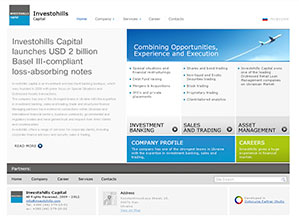
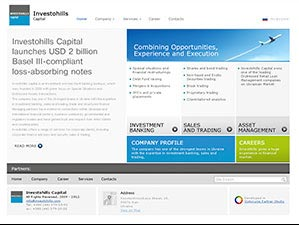
fix form main page and portfolio

diff --git a/css/style.css b/css/style.css
@@ -678,7 +678,7 @@ textarea  {
  ============================*/
 .tabs-section {
 	position: relative;
-	padding-bottom:360px;
+	padding-bottom:50px;
 	margin:0 0 40px;
 }
 .tabs-section .tabs {
@@ -686,28 +686,27 @@ textarea  {
 	bottom:0;
 	left:0;
 	z-index: 2;
+	text-align:center;
+	width:100%;
 }
 .main .tabs-section .tabs span {
-	width:140px;
-	height:100%;
-	height:78px;
+	text-indent: -999em;
 	cursor: pointer;
-}
-.main .tabs-section .tabs span:first-child {
-	width:300px;
+	text-align:left;
 }
 .tabs-section .tabs span{
-	padding:10px 15px;
 	position: relative;
-	display:block;
+	display: inline-block;
 	font-size:14px;
 	line-height: 18px;
-	float:left;
+
 	margin:0 0 15px 15px;
 	background: #eeeeee;
 	color:#000;
-	border-radius:10px;
+	border-radius:30px;
 	text-decoration: none;
+	min-height: 10px;
+	min-width: 17px;
 }
 .tabs-section .tabs span.active,
 .tabs-section .tabs span:hover,
@@ -718,14 +717,7 @@ textarea  {
 .tabs-section .tabs span.active {
 	cursor: default;
 }
-.tabs-section .tabs span.active:before {
-	content:"";
-	width:16px;
-	height:32px;
-	position: absolute;
-	top:-23px;
-	left:0;
-}
+
 .tabs-section .tab-body {
 	display: none;
 }
@@ -748,6 +740,7 @@ textarea  {
 }
 .tabs-section .picture {
 	margin:0 auto 20px;
+	display:none;
 }
 .tabs-section .picture img{
 	display:block;
@@ -848,8 +841,8 @@ ul.bullet-squre li:before {
 	margin:20px;
 }
 .sosials li {
-	float:left;
 	margin-left:7px;
+	display: inline-block;
 }
 .sosials li:first-child {
 	margin-left:0;
@@ -963,7 +956,7 @@ ul.bullet-squre li:before {
 	display:block;
 }
 .main-form-section .form-field {
-	margin:0 0 14px;
+	margin:0 0 4px;
 }
 .air-balls .main-form-section .form-field label {
 	color:#fff;
@@ -974,14 +967,18 @@ ul.bullet-squre li:before {
 	color:#000;
 	padding:7px 0;
 	font-size:13px;
+	line-height:15px;
+}
+.main-form-section .form-field textarea {
+	max-height:50px;
 }
 .main-form-section .form-field input,
 .main-form-section .form-field textarea {
 	width:100%;
 	background: #fff;
 	border:1px solid #c7c7c7;
-	padding:9px 10px;
-	font-size:13px;
+	padding:2px 5px;
+	font-size:11px;
 	color:#acacac;
 }
 .air-balls .main-form-section .form-field input,
@@ -1192,6 +1189,9 @@ a.btn-orange {
 	right:-155px;
 	top:10px;
 	z-index: 2;
+}
+.calculate-price .btn-orange:before {
+	display:none;
 }
 .estimate-page .right-side p {
 	line-height:24px;
@@ -1783,9 +1783,6 @@ a.btn-orange {
 	padding:10px;
 
 }
-.small-preview .screen-shot {
-	height:200px;
-}
 .screen-shot {
 	border:2px solid #a7a7a7;
 	margin:0 0 20px;
@@ -1839,4 +1836,15 @@ a.btn-orange {
 .icons-qr {
 	margin-top:7px;
 }
-
+@media only screen and (min-width: 1400px) {
+	.contact-header:after {
+		background: url("../img/ball-contact.jpg") no-repeat scroll 100% 0 rgba(0, 0, 0, 0);
+		bottom: -300px;
+		content: "";
+		height: 319px;
+		position: absolute;
+		right: -170px;
+		width: 270px;
+		z-index: 1;
+	}
+}

diff --git a/css/600.css b/css/600.css
@@ -118,7 +118,38 @@
 	width:50%;
 	float:left;
 }
-.small-preview .preview {
-	width:33.3333%;
+ .calculate-price .btn-orange:before {
+	display:block;
+}
+.tabs-section .tabs {
+	width:auto;
+}
+.main .tabs-section .tabs span {
+	width:140px;
+	height:100%;
+	height:78px;
+	text-indent: 0;
+}
+.main .tabs-section .tabs span:first-child {
+	width:300px;
+}
+.tabs-section .tabs span{
+	padding:10px 15px;
+	border-radius:10px;
 	float:left;
+	display:block;
+}
+.tabs-section .tabs span.active:before {
+	content:"";
+	width:16px;
+	height:32px;
+	position: absolute;
+	top:-23px;
+	left:0;
+}
+.tabs-section .picture {
+	display:block;
+}
+.tabs-section {
+	padding-bottom:360px;
 }

diff --git a/css/992.css b/css/992.css
@@ -64,24 +64,11 @@
     .tabs-section .discription ul.bullet-squre {
 		margin:0 0 20px 20px;
 	}
-    .main-form-section-discription {
-		text-align:left;
-		float:left;
-	    margin-left:0;
-	}
+
     .top-large-picture {
 	    /*margin-bottom:50px;*/
     }
-	.contact-header:after {
-		background: url("../img/ball-contact.jpg") no-repeat scroll 100% 0 rgba(0, 0, 0, 0);
-		bottom: -300px;
-		content: "";
-		height: 319px;
-		position: absolute;
-		right: -170px;
-		width: 270px;
-		z-index: 1;
-	}
+
 	.estimate-page .inn {
 		width:940px;
 	}

diff --git a/css/768.css b/css/768.css
@@ -77,3 +77,22 @@
 .tags {
 	margin:0 -7px 30px;
 }
+.main-form-section-discription {
+	text-align:left;
+	float:left;
+	margin-left:0;
+}
+.main-form-section .form-field {
+	margin: 0 0 14px;
+}
+.main-form-section .form-field input,
+.main-form-section .form-field textarea {
+	font-size:13px;
+	padding:8px 10px;
+}
+.main-form-section .form-field label {
+	line-height:18px;
+}
+.main-form-section .form-field textarea {
+	max-height: 200px;
+}

diff --git a/css/480.css b/css/480.css
@@ -3,9 +3,6 @@
 .tabs-section .tab-body {
 	padding:0 20px;
 }
-.tabs-section {
-	padding-bottom:220px;
-}
 .sosials {
 	margin:20px 0;
 }
@@ -16,4 +13,8 @@
 }
 .team .photo {
 	margin-left:0px;
+}
+.small-preview .preview {
+	width:33.3333%;
+	float:left;
 }
